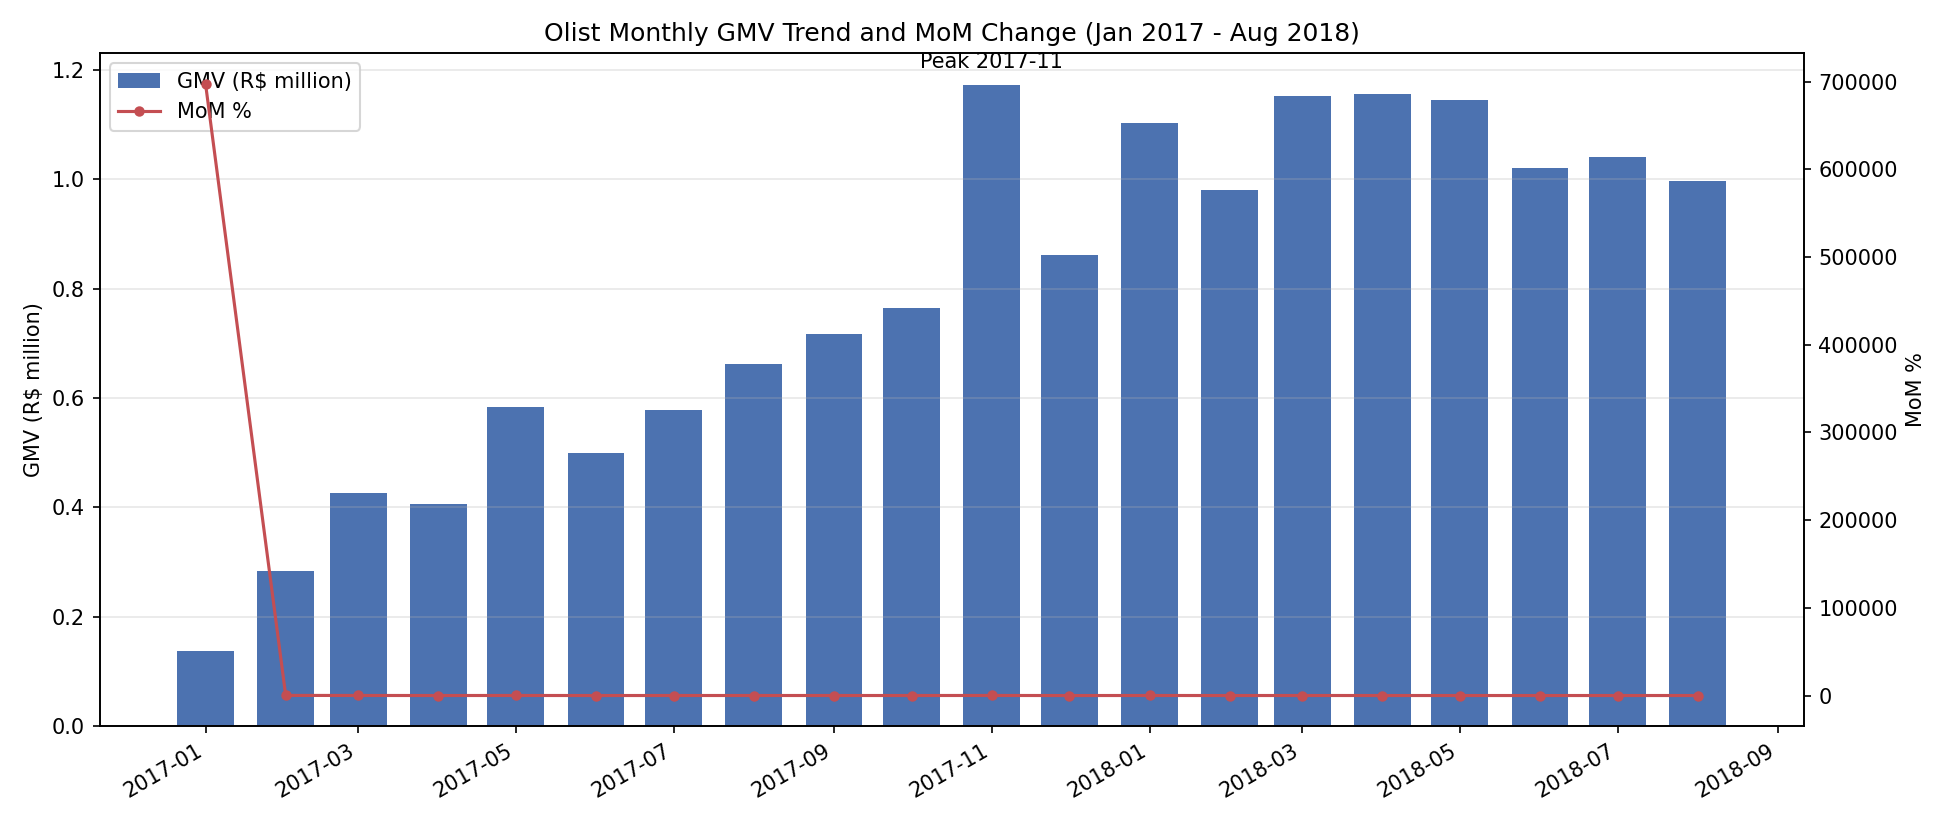
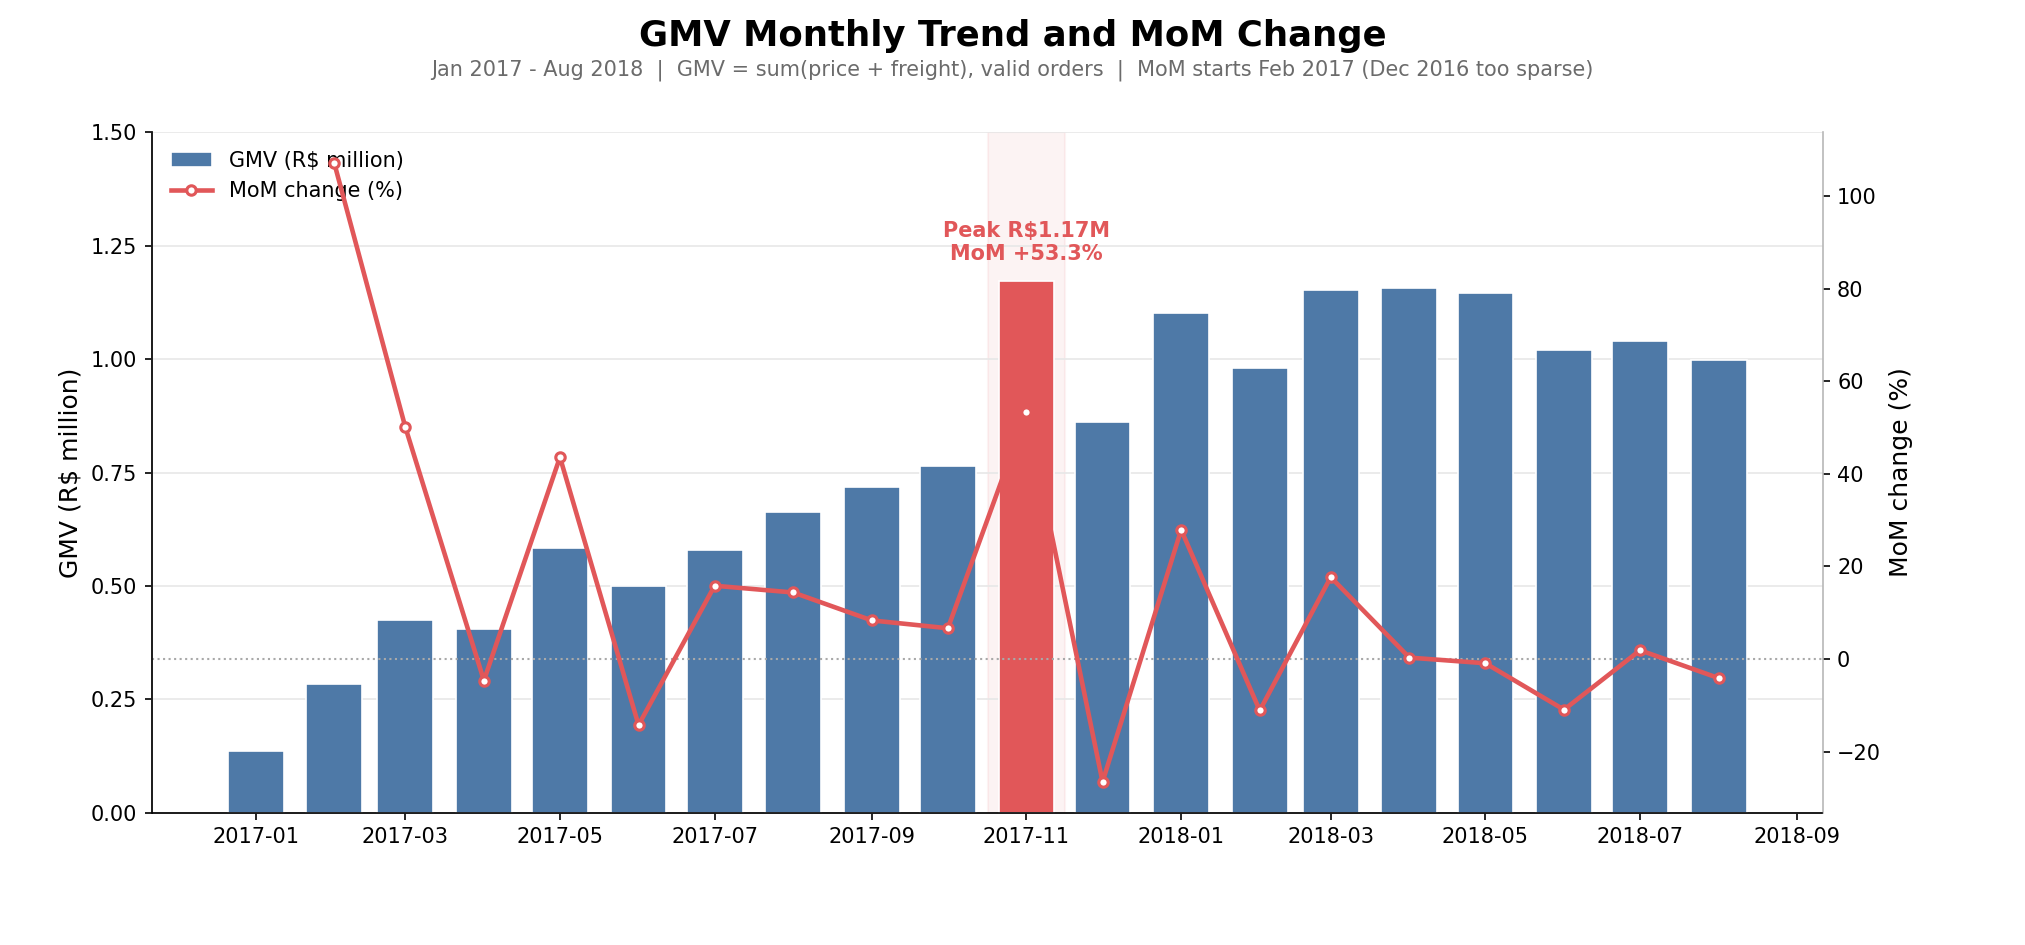
Restyle result charts and exclude sparse Dec-2016 MoM artifact

diff --git a/analysis/02_plot_trend.py b/analysis/02_plot_trend.py
@@ -2,30 +2,111 @@ import os
 os.environ.setdefault("MKL_THREADING_LAYER", "TBB")
 import matplotlib
 matplotlib.use("Agg")
+import matplotlib.dates as mdates
 import matplotlib.pyplot as plt
 import pandas as pd
 
 root = os.path.dirname(os.path.dirname(os.path.abspath(__file__)))
-df = pd.read_csv(root + r"\results\02_GMV月度趋势与环比_q1.csv")
+df = pd.read_csv(os.path.join(root, "results", "02_GMV月度趋势与环比_q1.csv"))
 df["ym"] = pd.to_datetime(df["ym"])
-core = df[(df["ym"] >= "2017-01-01") & (df["ym"] <= "2018-08-01")].copy()
+core = df[(df["ym"] >= "2017-01-01") & (df["ym"] <= "2018-08-01")].copy().reset_index(drop=True)
+mom_line = core[core["ym"] >= "2017-02-01"].copy()
 
-fig, ax1 = plt.subplots(figsize=(13, 5.5))
-ax1.bar(core["ym"], core["gmv"] / 1e6, width=22, color="#4C72B0", label="GMV (R$ million)")
-ax1.set_ylabel("GMV (R$ million)")
-ax1.set_title("Olist Monthly GMV Trend and MoM Change (Jan 2017 - Aug 2018)")
+BAR = "#4E79A7"
+PEAK = "#E15759"
+MOM = "#E15759"
+
+fig, ax1 = plt.subplots(figsize=(13.5, 6.3))
+fig.subplots_adjust(top=0.86, bottom=0.14, left=0.075, right=0.90)
+
+ax1.spines["top"].set_visible(False)
+ax1.spines["right"].set_visible(False)
+ax1.spines["left"].set_color("#B8B8B8")
+ax1.spines["bottom"].set_color("#B8B8B8")
+ax1.tick_params(axis="y", labelsize=10)
+ax1.grid(axis="y", color="#E7E7E7", linewidth=0.8, zorder=0)
+
+peak_idx = core["gmv"].idxmax()
+peak_date = core.loc[peak_idx, "ym"]
+peak_dn = mdates.date2num(peak_date)
+bar_colors = [PEAK if i == peak_idx else BAR for i in range(len(core))]
+
+ax1.axvspan(peak_dn - 15, peak_dn + 15, color=PEAK, alpha=0.07, zorder=1)
+ax1.bar(
+    core["ym"],
+    core["gmv"] / 1e6,
+    width=22,
+    color=bar_colors,
+    edgecolor="white",
+    linewidth=0.8,
+    zorder=3,
+    label="GMV (R$ million)",
+)
+ax1.set_ylim(0, 1.5)
+ax1.set_ylabel("GMV (R$ million)", fontsize=12)
+ax1.yaxis.set_major_locator(plt.MultipleLocator(0.25))
+ax1.yaxis.set_major_formatter(plt.FuncFormatter(lambda v, _: f"{v:.2f}"))
+
 ax2 = ax1.twinx()
-ax2.plot(core["ym"], core["mom_pct"], color="#C44E52", marker="o", ms=4, label="MoM %")
-ax2.set_ylabel("MoM %")
-peak = core.loc[core["gmv"].idxmax()]
-ax1.annotate(f"Peak {peak['ym'].strftime('%Y-%m')}", xy=(peak["ym"], peak["gmv"] / 1e6),
-             xytext=(0, 8), textcoords="offset points", ha="center")
-h1, l1 = ax1.get_legend_handles_labels()
+ax2.plot(
+    mom_line["ym"],
+    mom_line["mom_pct"],
+    color=MOM,
+    linewidth=2.2,
+    marker="o",
+    markersize=4.5,
+    markerfacecolor="white",
+    markeredgewidth=1.5,
+    zorder=4,
+    label="MoM change (%)",
+)
+ax2.axhline(0, color="#A9A9A9", linewidth=1.0, linestyle=":", zorder=2)
+ax2.set_ylabel("MoM change (%)", fontsize=12)
+ax2.tick_params(axis="y", labelsize=10)
+ax2.spines["top"].set_visible(False)
+ax2.spines["right"].set_color("#B8B8B8")
+
+ax1.annotate(
+    "Peak R$1.17M\nMoM +53.3%",
+    xy=(peak_date, core.loc[peak_idx, "gmv"] / 1e6),
+    xytext=(0, 8),
+    textcoords="offset points",
+    ha="center",
+    va="bottom",
+    fontsize=10,
+    fontweight="bold",
+    color=PEAK,
+)
+
+ax2.xaxis.set_major_locator(mdates.MonthLocator(interval=2))
+ax2.xaxis.set_major_formatter(mdates.DateFormatter("%Y-%m"))
+plt.setp(ax2.get_xticklabels(), rotation=35, ha="right", fontsize=9.5)
+
+handles, labels = ax1.get_legend_handles_labels()
 h2, l2 = ax2.get_legend_handles_labels()
-ax1.legend(h1 + h2, l1 + l2, loc="upper left")
-ax1.grid(axis="y", alpha=0.3)
-fig.autofmt_xdate()
-fig.tight_layout()
-out = root + r"\results\02_GMV月度趋势.png"
+ax1.legend(
+    handles + h2,
+    labels + l2,
+    loc="upper left",
+    frameon=False,
+    fontsize=10,
+)
+
+fig.suptitle(
+    "GMV Monthly Trend and MoM Change",
+    fontsize=17,
+    fontweight="bold",
+    y=0.98,
+)
+fig.text(
+    0.5,
+    0.92,
+    "Jan 2017 - Aug 2018  |  GMV = sum(price + freight), valid orders  |  MoM starts Feb 2017 (Dec 2016 too sparse)",
+    ha="center",
+    fontsize=10,
+    color="#6B6B6B",
+)
+
+out = os.path.join(root, "results", "02_GMV月度趋势.png")
 fig.savefig(out, dpi=150)
 print("saved:", out)

diff --git a/analysis/03_plot_delay.py b/analysis/03_plot_delay.py
@@ -3,29 +3,103 @@ os.environ.setdefault("MKL_THREADING_LAYER", "TBB")
 import matplotlib
 matplotlib.use("Agg")
 import matplotlib.pyplot as plt
+import numpy as np
 import pandas as pd
 
 root = os.path.dirname(os.path.dirname(os.path.abspath(__file__)))
-df = pd.read_csv(root + r"\results\analysis_03_配送延迟差评率.csv")
-en = {"按时或提前": "On time / early", "延迟1天": "1 day late", "延迟2-3天": "2-3 days late",
-      "延迟4-7天": "4-7 days late", "延迟8-14天": "8-14 days late", "延迟15天以上": "15+ days late"}
-x = [en[v] for v in df["bucket"]]
-y = df["bad_rate_pct"].tolist()
-err_low = (y - df["ci_low_pct"]).tolist()
-err_high = (df["ci_high_pct"] - y).tolist()
+df = pd.read_csv(os.path.join(root, "results", "analysis_03_配送延迟差评率.csv"))
 
-fig, ax = plt.subplots(figsize=(11, 5.5))
-ax.bar(range(len(x)), y, color="#4C72B0", alpha=0.9, label="Bad-review rate (%)")
-ax.errorbar(range(len(x)), y, yerr=[err_low, err_high], fmt="none", ecolor="black", capsize=5, label="95% CI")
-for i, v in enumerate(y):
-    ax.text(i, v + 2, f"{v:.1f}%", ha="center")
-ax.set_xticks(range(len(x)))
-ax.set_xticklabels(x, rotation=18, ha="right")
-ax.set_ylabel("Bad-review rate (%)")
-ax.set_title("Delivery Delay vs Bad-Review Rate (95% Wilson CI)")
-ax.legend(loc="upper left")
-ax.grid(axis="y", alpha=0.3)
-fig.tight_layout()
-out = root + r"\results\analysis_03_配送延迟差评率.png"
+short_labels = [
+    "On time / early",
+    "1 day late",
+    "2-3 days late",
+    "4-7 days late",
+    "8-14 days late",
+    "15+ days late",
+]
+colors = ["#4E79A7", "#6B9AC9", "#E8A75D", "#D9734E", "#C14B4B", "#8C1F28"]
+
+x = np.arange(len(df))
+rate = df["bad_rate_pct"].to_numpy()
+err_low = (rate - df["ci_low_pct"].to_numpy()).tolist()
+err_high = (df["ci_high_pct"].to_numpy() - rate).tolist()
+
+fig, ax = plt.subplots(figsize=(12.5, 6.8))
+fig.subplots_adjust(top=0.85, bottom=0.17, left=0.075, right=0.975)
+
+ax.axvspan(2.5, len(df) - 0.5, color="#C0392B", alpha=0.045, zorder=0)
+ax.bar(
+    x,
+    rate,
+    width=0.68,
+    color=colors,
+    edgecolor="white",
+    linewidth=1.2,
+    zorder=3,
+)
+ax.errorbar(
+    x,
+    rate,
+    yerr=[err_low, err_high],
+    fmt="none",
+    ecolor="#3A3A3A",
+    elinewidth=1.4,
+    capsize=5,
+    zorder=4,
+)
+
+for i, v in enumerate(rate):
+    ax.text(
+        i,
+        v + 3.2,
+        f"{v:.1f}%",
+        ha="center",
+        fontsize=13.5,
+        fontweight="bold",
+        color="#222222",
+        zorder=5,
+    )
+
+tick_labels = [
+    f"{short_labels[i]}\n(n={int(df['reviewed_cnt'].iloc[i]):,})"
+    for i in range(len(df))
+]
+ax.set_xticks(x)
+ax.set_xticklabels(tick_labels, fontsize=10)
+ax.set_ylabel("Bad-review rate (%)", fontsize=12)
+ax.set_ylim(0, 96)
+ax.yaxis.set_major_locator(plt.MultipleLocator(10))
+ax.yaxis.set_major_formatter(plt.FuncFormatter(lambda v, _: f"{v:.0f}%"))
+ax.tick_params(axis="y", labelsize=10)
+ax.grid(axis="y", color="#E7E7E7", linewidth=0.8, zorder=0)
+ax.spines["top"].set_visible(False)
+ax.spines["right"].set_visible(False)
+ax.spines["left"].set_color("#B8B8B8")
+ax.spines["bottom"].set_color("#B8B8B8")
+
+fig.suptitle(
+    "Delivery Delay and Bad-Review Rate",
+    fontsize=18,
+    fontweight="bold",
+    y=0.99,
+)
+fig.text(
+    0.5,
+    0.925,
+    "Delivered orders with complete dates  |  reviewed orders only  |  bad review = score <= 2",
+    ha="center",
+    fontsize=10.5,
+    color="#6B6B6B",
+)
+fig.text(
+    0.5,
+    0.035,
+    "Error bars: 95% Wilson CI  |  shaded area: delay >= 4 days",
+    ha="center",
+    fontsize=9,
+    color="#8A8A8A",
+)
+
+out = os.path.join(root, "results", "analysis_03_配送延迟差评率.png")
 fig.savefig(out, dpi=150)
 print("saved:", out)
